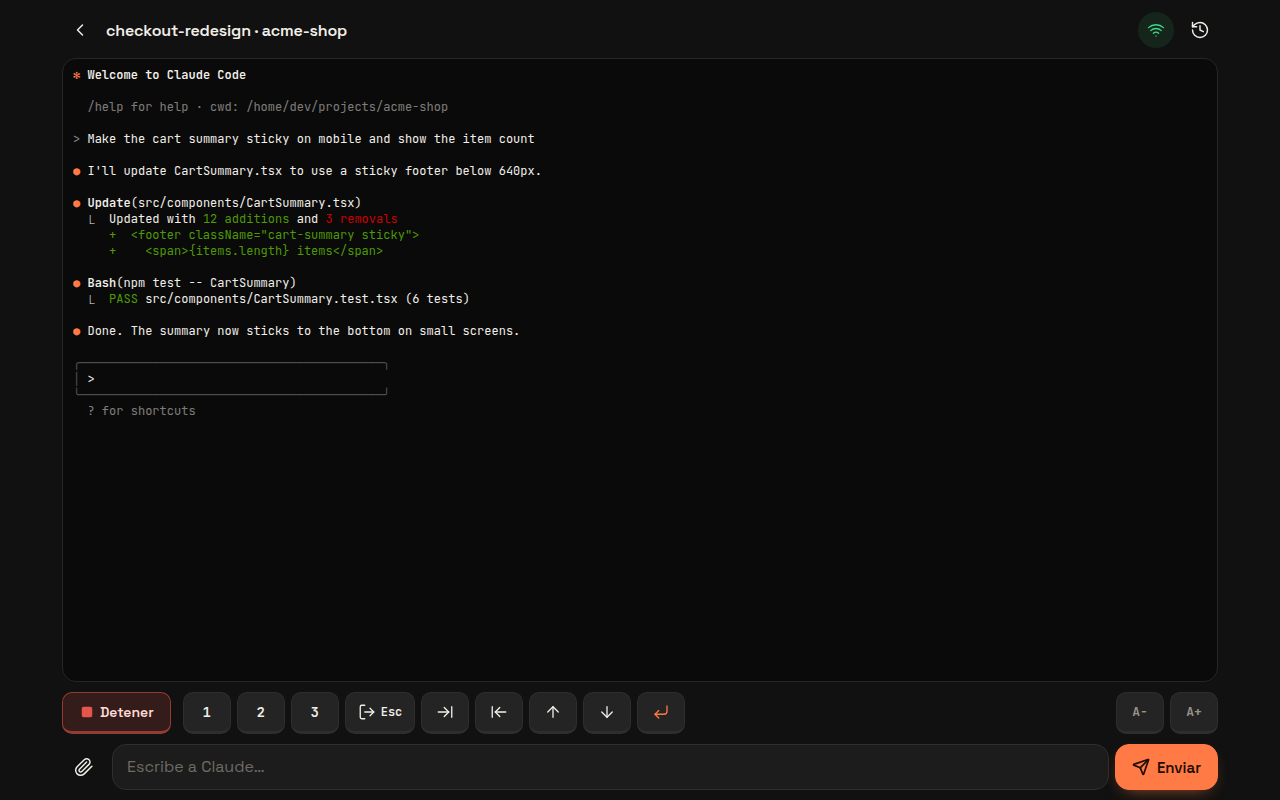
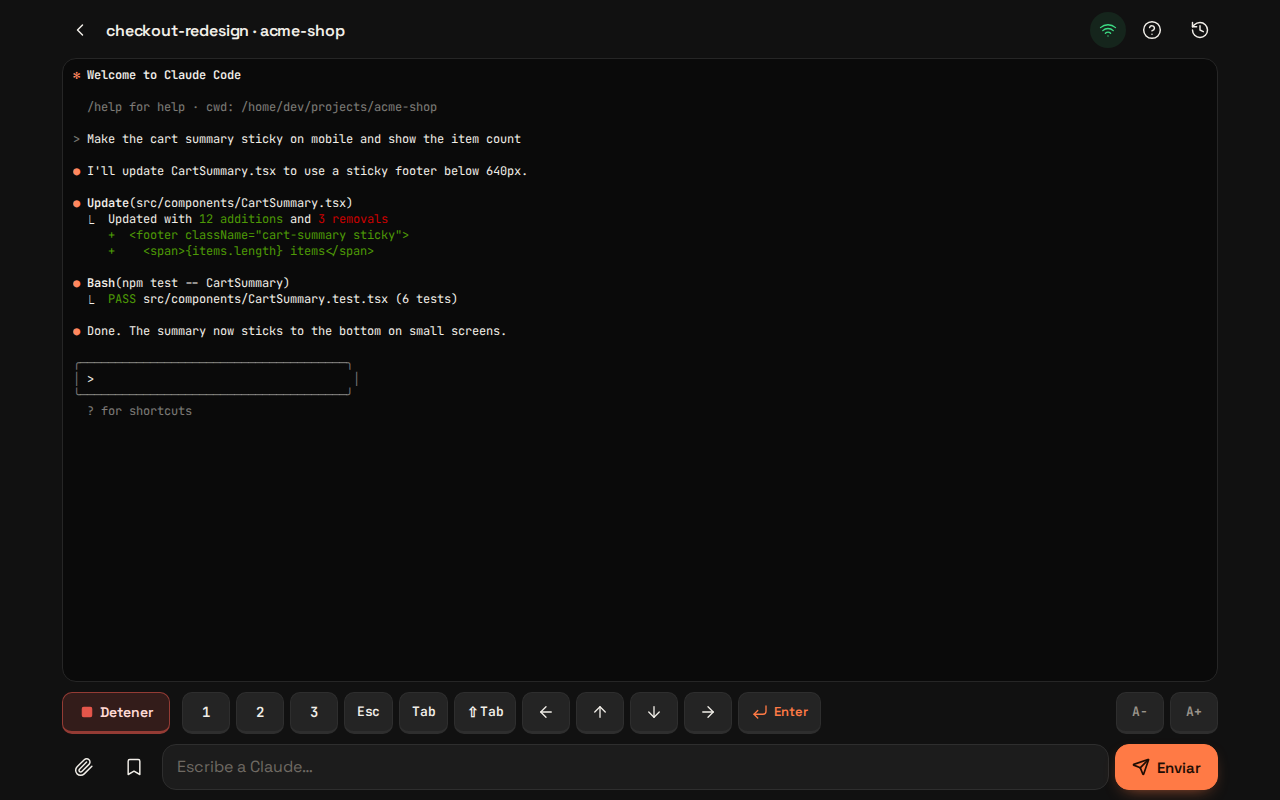
docs: refresh screenshots and add key help and saved commands shots
Regenerated every README screenshot with demo data so they show the
current UI: new key bar (arrows, Esc/Shift+Tab, Enter label), help
button, saved commands, terminal-only sessions, command copy buttons
and collapsed plugin-context notes in the history. Added phone-help and
phone-snippets, and documented the collapsed notes in both READMEs.

diff --git a/README.es.md b/README.es.md
@@ -275,6 +275,8 @@ Se guardan en la computadora en `$TMPDIR/claude-remote-uploads/` (permisos 0700;
 
 <br clear="right">
 
+<p align="center"><img src="docs/screenshots/phone-help.png" width="240" alt="Ayuda de teclas">&nbsp;&nbsp;<img src="docs/screenshots/phone-snippets.png" width="240" alt="Comandos guardados"><br><sub>Ayuda de teclas (?) · Comandos guardados</sub></p>
+
 ### Historial
 
 <img src="docs/screenshots/phone-history.png" width="260" align="right" alt="Vista de historial">
@@ -284,6 +286,7 @@ Toca el ícono del reloj para leer la conversación completa con calma:
 - **Tus mensajes** van a la derecha en burbujas naranjas. **Los de Claude** van a la izquierda con Markdown: títulos, listas, negritas, código en línea y bloques de código con scroll horizontal.
 - **Las herramientas** aparecen como filas compactas con un ícono por tipo (terminal para Bash, archivo para Read/Edit/Write, lupa para Grep/Glob, globo para las web, robot para agentes). Las seguidas se agrupan en **"N herramientas"**; tócalas para desplegarlas.
 - **Horas** (HH:MM) y separadores por día (*Hoy*, *Ayer*, fecha).
+- **El contexto de plugins** que se inyecta al iniciar la sesión (p. ej. claude-mem, context-mode) y **el resumen de compactación** aparecen como tarjetas plegadas con su origen y tamaño; tócalas para leerlas.
 - El botón 🔧 oculta o muestra las herramientas y se recuerda en el dispositivo. **Ir al final** baja al último mensaje. En conversaciones largas se dibujan primero los últimos 300 mensajes; **Cargar anteriores** trae el resto.
 - Si no encuentra la transcripción (p. ej. una sesión que no es de Claude Code), muestra el scrollback de tmux como texto.
 

diff --git a/README.md b/README.md
@@ -276,6 +276,8 @@ The file is saved on the computer in `$TMPDIR/claude-remote-uploads/` (mode 0700
 
 <br clear="right">
 
+<p align="center"><img src="docs/screenshots/phone-help.png" width="240" alt="Key help">&nbsp;&nbsp;<img src="docs/screenshots/phone-snippets.png" width="240" alt="Saved commands"><br><sub>Key help (?) · Saved commands</sub></p>
+
 ### History
 
 <img src="docs/screenshots/phone-history.png" width="260" align="right" alt="History view">
@@ -285,6 +287,7 @@ Tap the clock icon for a readable version of the whole conversation:
 - **Your messages** are on the right in orange bubbles. **Claude's** are on the left with Markdown: headings, lists, bold, inline code and horizontally scrollable code blocks.
 - **Tool calls** appear as compact rows with an icon per type (terminal for Bash, file for Read/Edit/Write, magnifier for Grep/Glob, globe for web tools, robot for agents). Consecutive calls collapse into **“N herramientas”**; tap to expand.
 - **Timestamps** (HH:MM) and day separators (*Hoy* = today, *Ayer* = yesterday).
+- **Plugin context** injected at session start (e.g. claude-mem, context-mode) and the **compaction summary** show up as collapsed cards with their source and size; tap to read them.
 - The 🔧 button hides or shows tool calls and is remembered on the device. **Ir al final** jumps to the bottom. Long conversations render the last 300 messages first; **Cargar anteriores** loads earlier ones.
 - If the transcript can't be found (e.g. a session not started by Claude Code), it shows the tmux scrollback as plain text.
 
